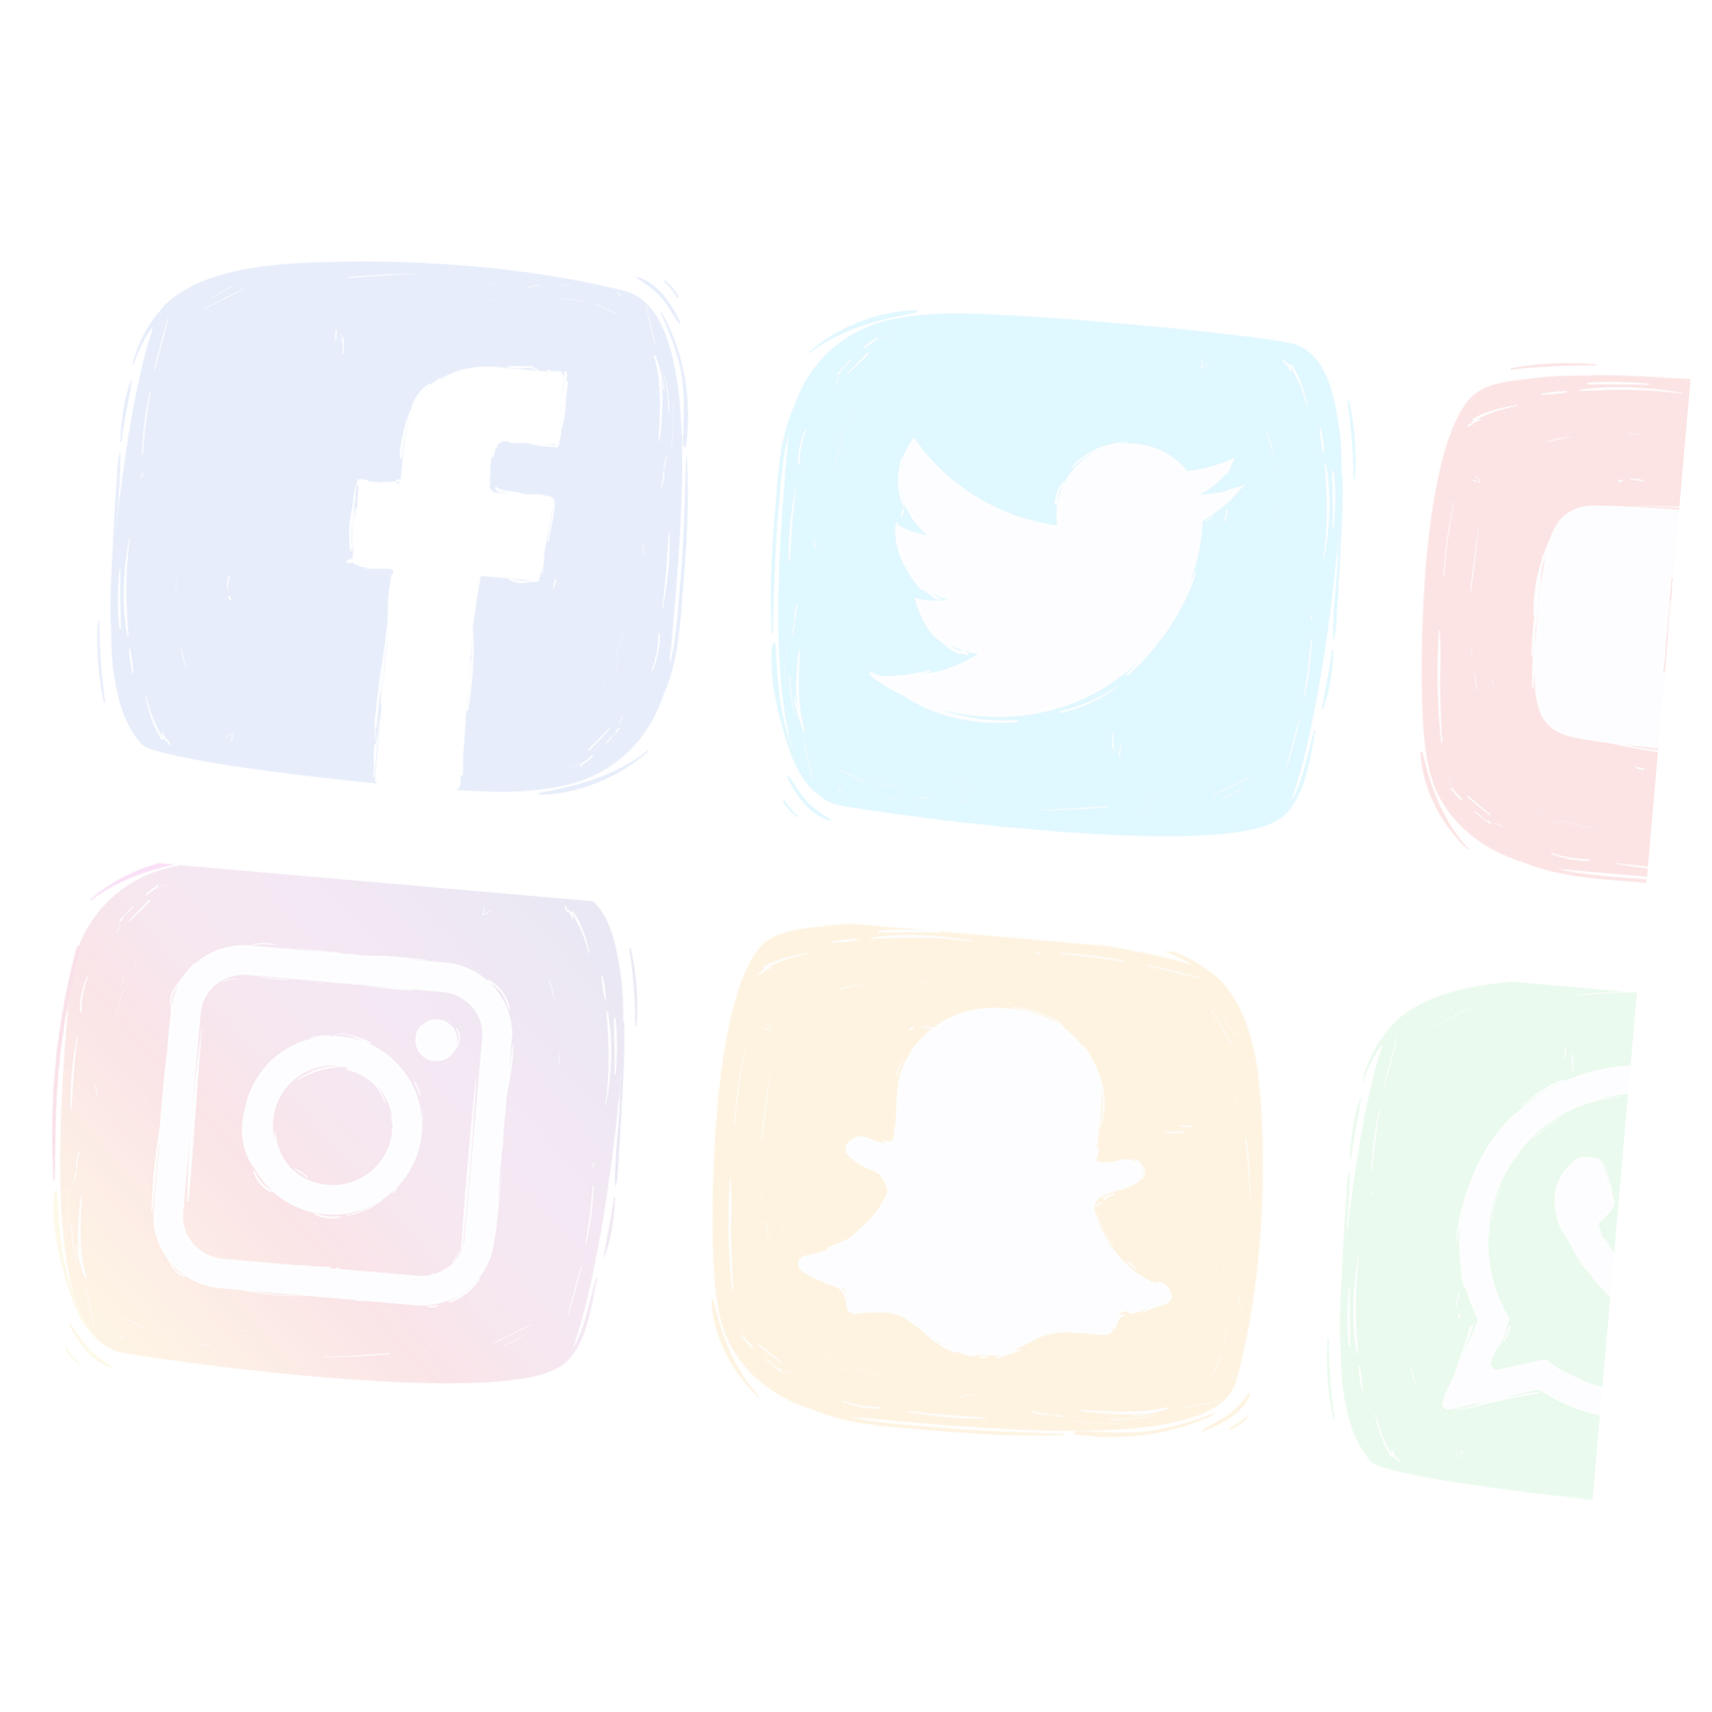
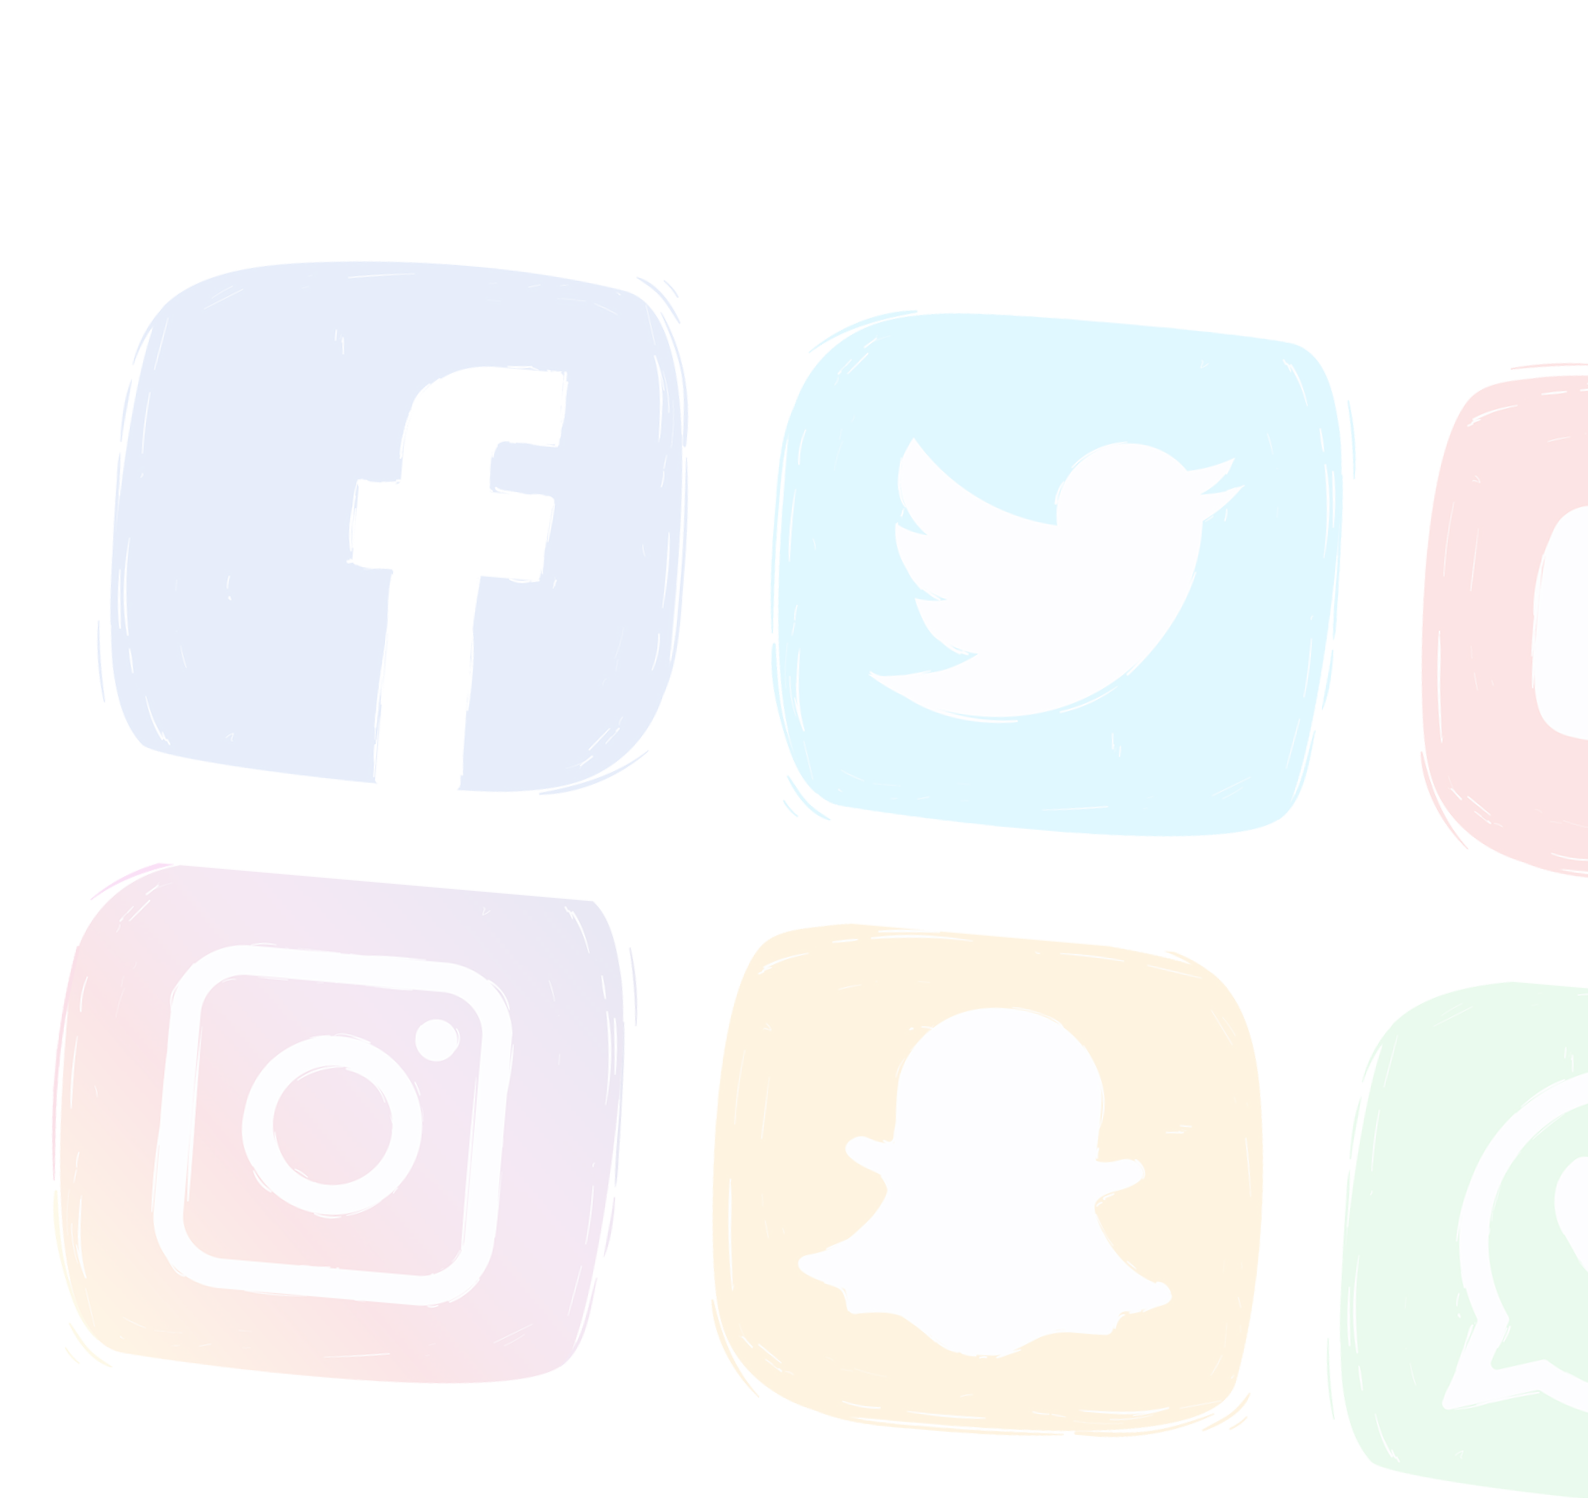
update pages section

diff --git a/src/routes/index.js b/src/routes/index.js
@@ -36,6 +36,16 @@ export default function Router() {
         },
       ],
     },
+    {
+      path: '/auth',
+      element: <PublicLayout />,
+      children: [
+        {
+          path: 'login',
+          element: <Login />,
+        },
+      ],
+    },
     // User Routes
     {
       path: '/user',
@@ -47,6 +57,18 @@ export default function Router() {
         },
       ],
     },
+
+    // App MailBuilder
+    {
+      path: '/app',
+      element: <PublicLayout />,
+      children: [
+        {
+          path: 'home',
+          element: <HomeBuilder />,
+        },
+      ],
+    },
   ]);
 }
 
@@ -55,12 +77,27 @@ export default function Router() {
  * Améliore les performances de l'application en ne chargeant que les pages nécessaires
  */
 
+/**
+ * Public Routes  (Routes publiques)
+ */
 const HomePage = Loadable(lazy(() => import('../Pages/HomePage')));
 const Subscription = Loadable(lazy(() => import('../Pages/Subscription')));
 const Documentation = Loadable(lazy(() => import('../Pages/Documentation')));
+
+/**
+ * Auth Routes  (Routes de l'espace authentification)
+ */
+
+const Login = Loadable(lazy(() => import('../Pages/Auth/Login')));
 
 /**
  * User Routes  (Routes de l'espace utilisateur)
  */
 
 const UserAccount = Loadable(lazy(() => import('../Pages/User/Account')));
+
+/**
+ * App MailBuilder  - Routes de l'application MailBuilder
+ */
+
+const HomeBuilder = Loadable(lazy(() => import('../Pages/App/HomeBuilder')));

diff --git a/src/layouts/Main/NavConfig.js b/src/layouts/Main/NavConfig.js
@@ -1,6 +1,6 @@
 import Iconify from '../../Components/Iconify';
 
-import { PATH_PUBLIC, PATH_USER } from '../../routes/paths';
+import { PATH_APP, PATH_PUBLIC, PATH_USER } from '../../routes/paths';
 
 const getIcon = (name) => <Iconify icon={name} width={22} height={22} />;
 const ICONS = {
@@ -35,7 +35,7 @@ const NavConfig = [
       {
         title: 'Mes informations',
         subheader: 'Mon Compte Pro',
-        items: [{ title: 'Mes informations', path: PATH_PUBLIC.root }],
+        items: [{ title: 'Mes informations', path: PATH_USER.account, icon: ICONS.account }],
       },
       {
         title: 'Mes abonnements',
@@ -44,7 +44,7 @@ const NavConfig = [
           {
             title: 'MailBuilder',
             subheader: 'Application de création de mail',
-            path: PATH_PUBLIC.root,
+            path: PATH_APP.app,
             icon: ICONS.account,
           },
         ],

diff --git a/src/layouts/Main/NavDesktop.js b/src/layouts/Main/NavDesktop.js
@@ -16,6 +16,7 @@ import {
 } from '@mui/material';
 
 import Iconify from '../../Components/Iconify';
+import { PATH_AUTH } from '../../routes/paths';
 
 const LinkStyle = styled(Link)(({ theme }) => ({
   ...theme.typography.subtitle2,
@@ -78,11 +79,17 @@ export default function NavDesktop({ isLoggedIn, isOffset, isHome, navConfig }) 
         />
       ))}
       {isLoggedIn ? (
-        <Button variant="contained" sx={{ ml: 2 }}>
+        <Button variant="contained" sx={{ ml: 2 }} component={RouterLink} to="/logout">
           Se déconnecter
         </Button>
       ) : (
-        <Button variant="contained" sx={{ ml: 2 }}>
+        <Button
+          variant="contained"
+          sx={{ ml: 2 }}
+          component={RouterLink}
+          to={PATH_AUTH.login}
+          color="primary"
+        >
           Connexion
         </Button>
       )}

diff --git a/src/Pages/App/HomeBuilder.js b/src/Pages/App/HomeBuilder.js
@@ -1,12 +1,12 @@
 import { Container, Typography } from '@mui/material';
 import { ContentStyle } from '../../layouts/Main/UserLayoutConfig';
 
-export default function Account() {
+export default function HomeBuilder() {
   return (
     <ContentStyle>
       <Container maxWidth="lg">
         <Typography variant="h4" component="h1" gutterBottom>
-          Account.js
+          HomeBuilder.js
         </Typography>
       </Container>
     </ContentStyle>

diff --git a/src/Pages/Auth/Login.js b/src/Pages/Auth/Login.js
@@ -1,12 +1,12 @@
 import { Container, Typography } from '@mui/material';
 import { ContentStyle } from '../../layouts/Main/UserLayoutConfig';
 
-export default function Account() {
+export default function Login() {
   return (
     <ContentStyle>
       <Container maxWidth="lg">
         <Typography variant="h4" component="h1" gutterBottom>
-          Account.js
+          Login.js
         </Typography>
       </Container>
     </ContentStyle>

diff --git a/src/routes/paths.js b/src/routes/paths.js
@@ -24,6 +24,13 @@ export const PATH_USER = {
   account: path(ROOTS_USER, '/account'),
 };
 
+// PATH APP ============================================================= //
+
+export const PATH_APP = {
+  root: '/app',
+  app: path('/app', '/home'),
+};
+
 // PATH PUBLIC ========================================================== //
 
 export const PATH_PUBLIC = {

diff --git a/src/Pages/HomePage.js b/src/Pages/HomePage.js
@@ -50,7 +50,7 @@ export default function HomePage() {
           position: 'absolute',
           top: 0,
           right: 0,
-          width: '80%',
+          width: { xs: '100%', sm: '100%', md: '80%' },
           height: '100%',
           backgroundImage: 'url(./static/social_bg.png)',
           backgroundRepeat: 'no-repeat',
